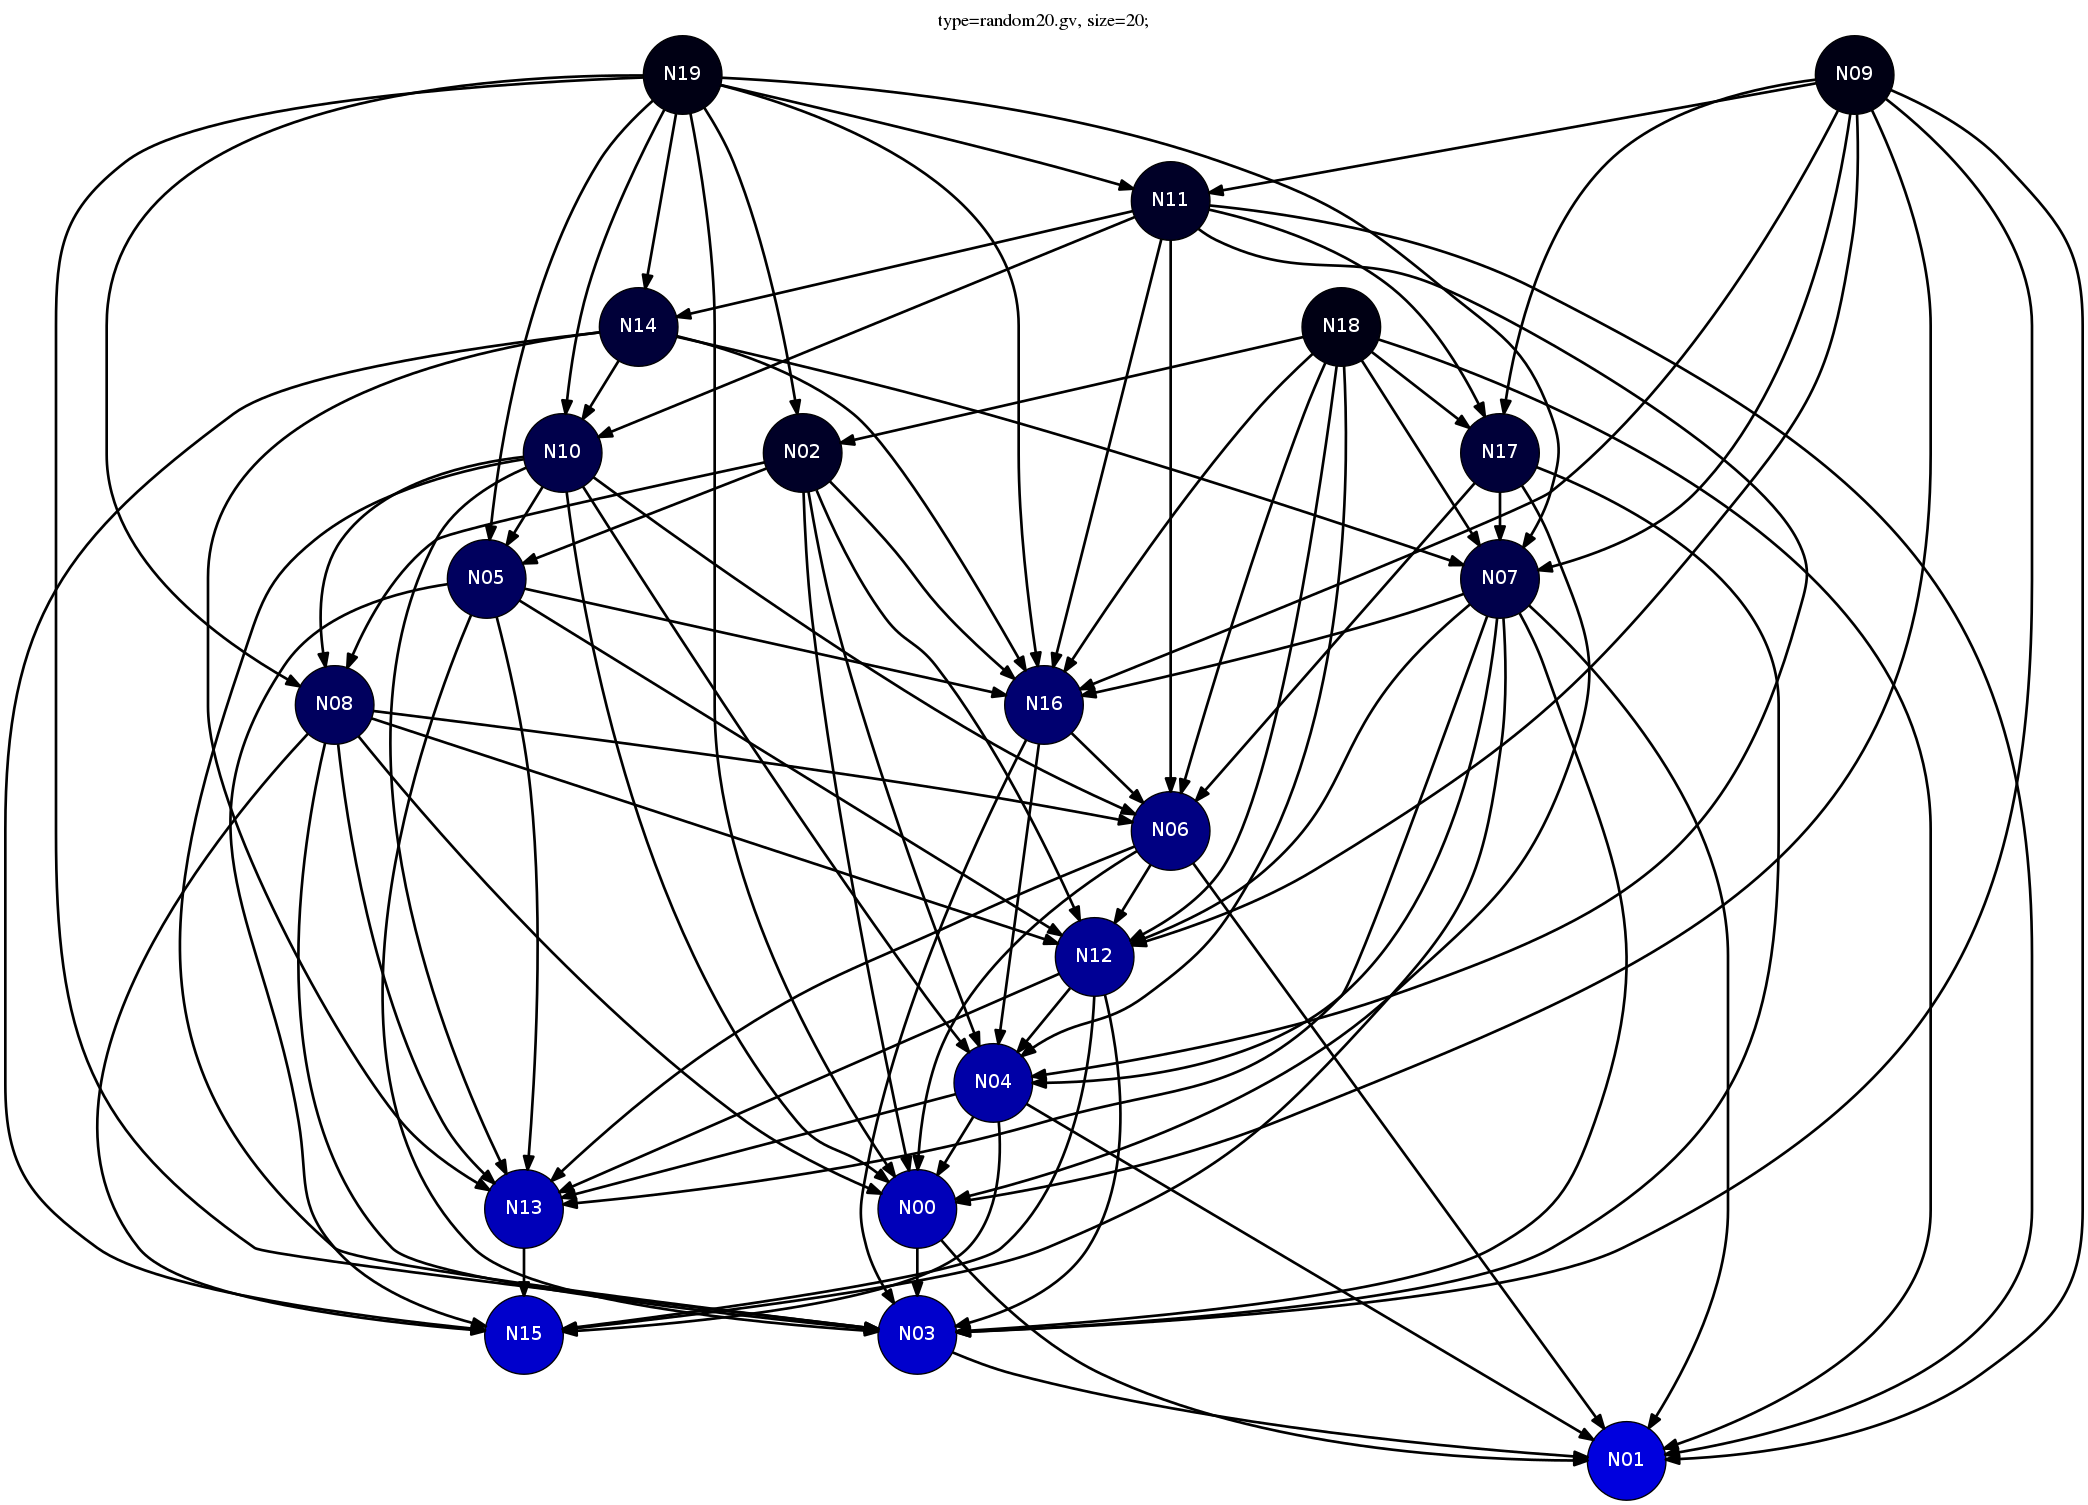
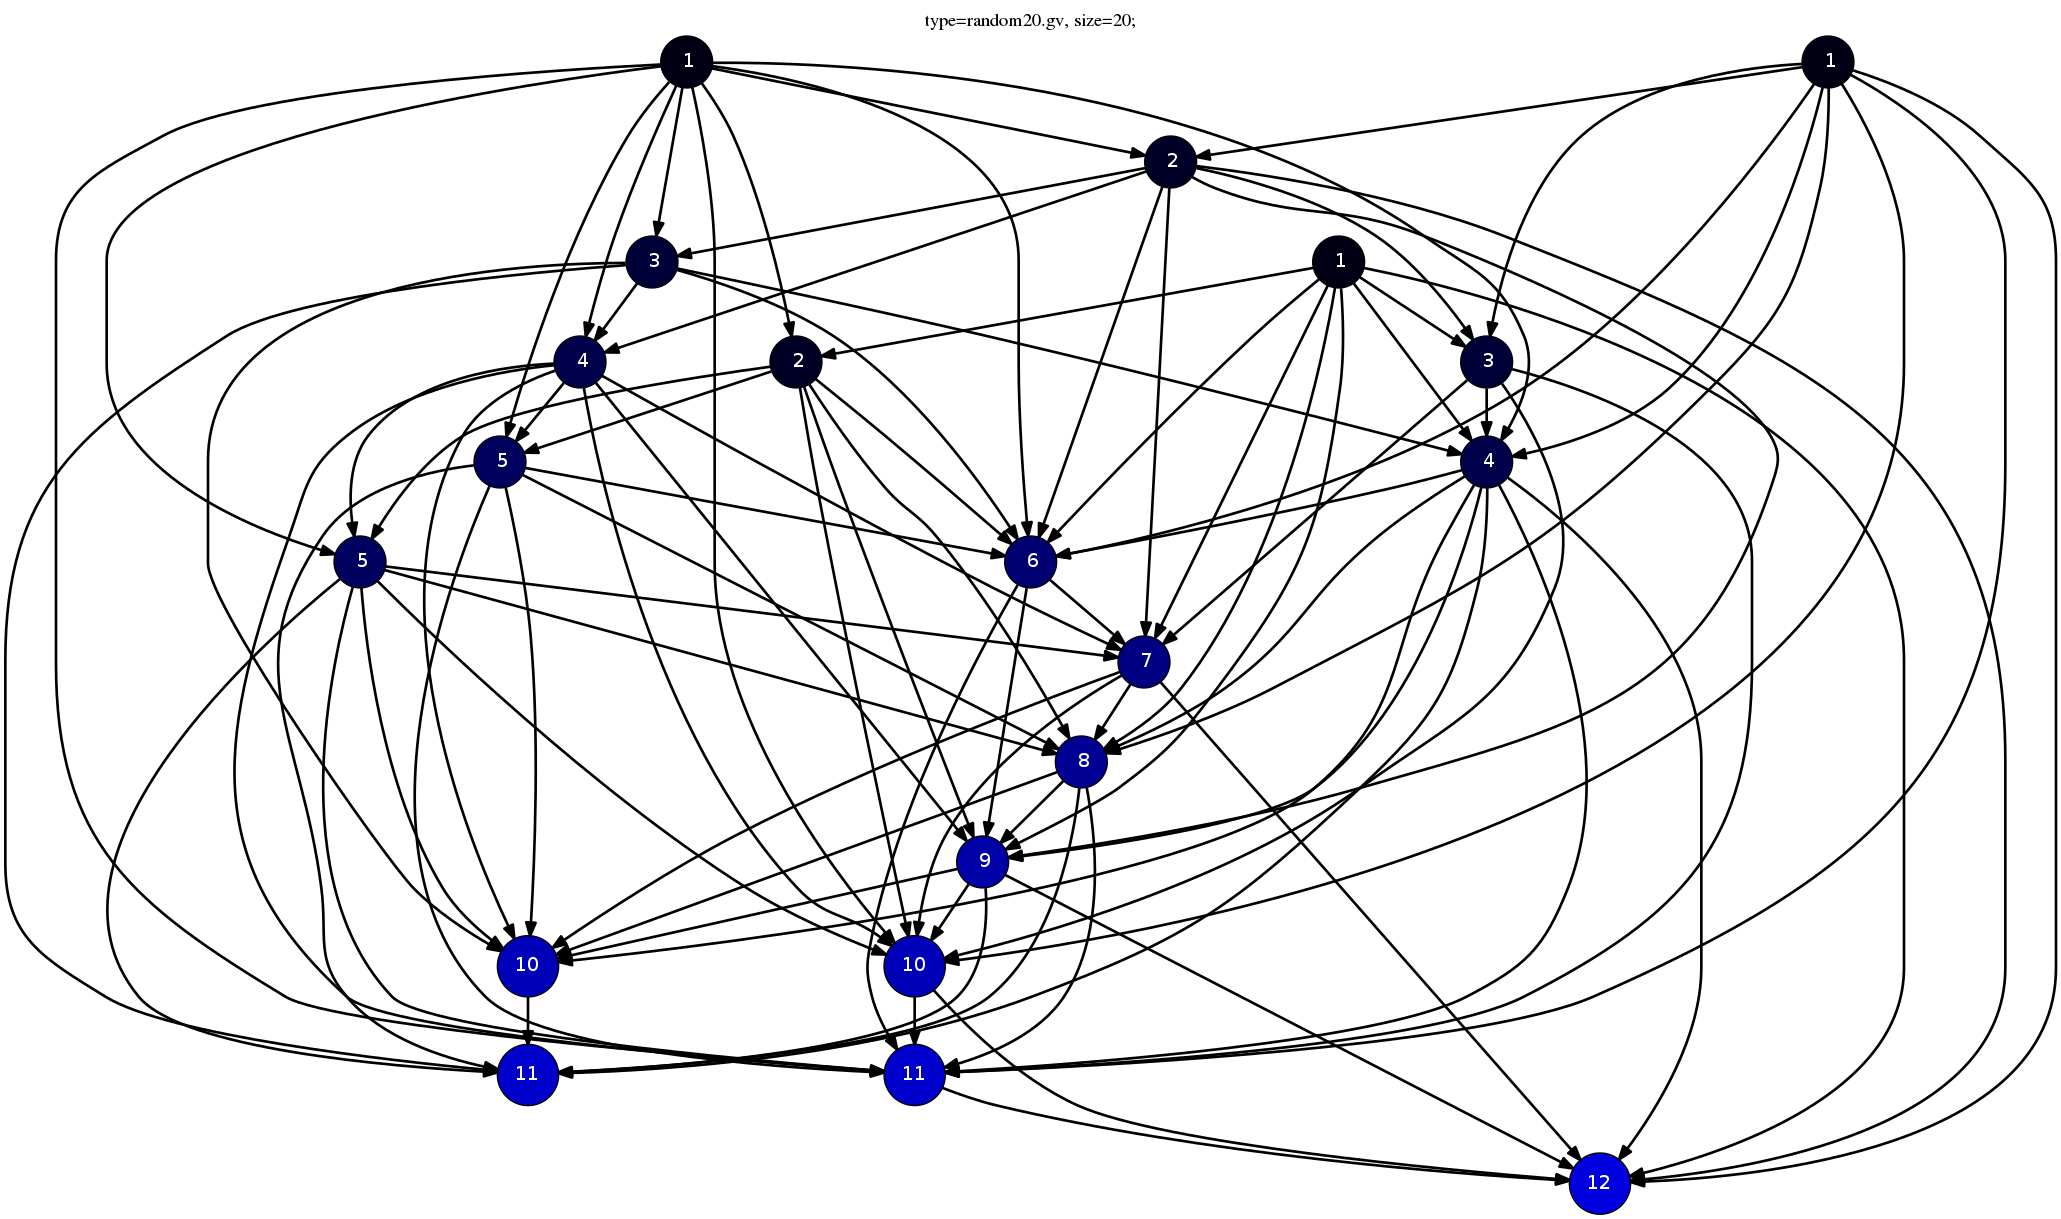
Nodes labeled with value of toposort

diff --git a/src/graphdoc.cpp b/src/graphdoc.cpp
@@ -57,7 +57,7 @@ void DirGraph::viz(std::string graphfilename) const {
 			std::string color( stream.str() );
 			stream.str(std::string()); // clear string stream
 			// std::cout << "\n" << color;
-			fprintf(outfile_ptr,"\tN%02u [ color=\"#000000\", fillcolor=\"%s\", fontcolor=white, fontname=\"Courier:italic\", shape=\"circle\", style=\"filled,solid\" ];\n",n,color.c_str());
+			fprintf(outfile_ptr,"\tN%02u [ label=\"%2u\"color=\"#000000\", fillcolor=\"%s\", fontcolor=white, fontname=\"Courier:italic\", shape=\"circle\", style=\"filled,solid\" ];\n",n,v,color.c_str());
 		}
 
 		fprintf(outfile_ptr,"\n\t# EDGES\n");
